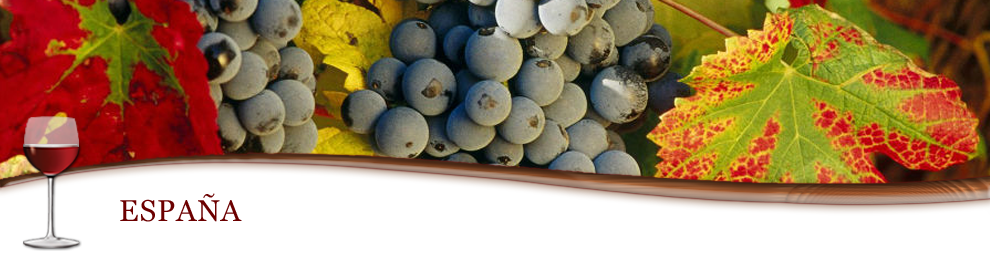
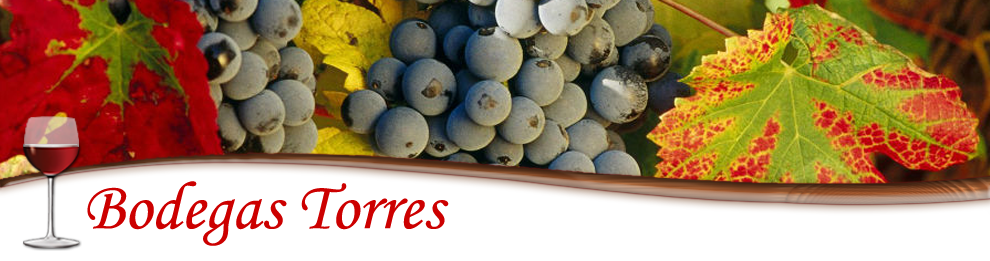
UPDATE web

Changed region(s): [[0.0909, 0.6743, 0.4545, 0.9502]]

diff --git a/web/index.html b/web/index.html
@@ -9,15 +9,33 @@
     <!-- Bootstrap core CSS -->
     <link href="css/bootstrap.min.css" rel="stylesheet">
     <link href="css/dataTables.bootstrap.css" rel="stylesheet">
+	
+	<!-- Estilos Añadidos gbarron -->
+	<style media="screen" type="text/css">
+		.body 
+		{
+		margin: 0;
+		padding: 0;
+		text-align: center; /* !!! */
+		}
 
+		.centered 
+		{
+			margin: 0 auto;
+			text-align: left;
+			width: 800px;
+		}
+	</style>
   </head>
 
   <body>
-      
-	<h1 style="text-align: center;">Bodegas Torres</h1>
-	<h2>Stocks</h2>
+    <div>
+		<img align="middle" src="img/cabecera.png">
+	</div>	
+	<!--<h1 style="text-align: center;">Bodegas Torres</h1>-->
+	<h2><img src="img/logo_pequeño.png" height="40" width="40">  Stocks</h2>
     <div id='table-container-stock'></div>
-	<h2>Pedidos</h2>
+	<h2><img src="img/logo_pequeño.png" height="40" width="40">  Pedidos</h2>
 	<div id='table-container-pedidos'></div>
 
     <!-- Bootstrap core JavaScript
